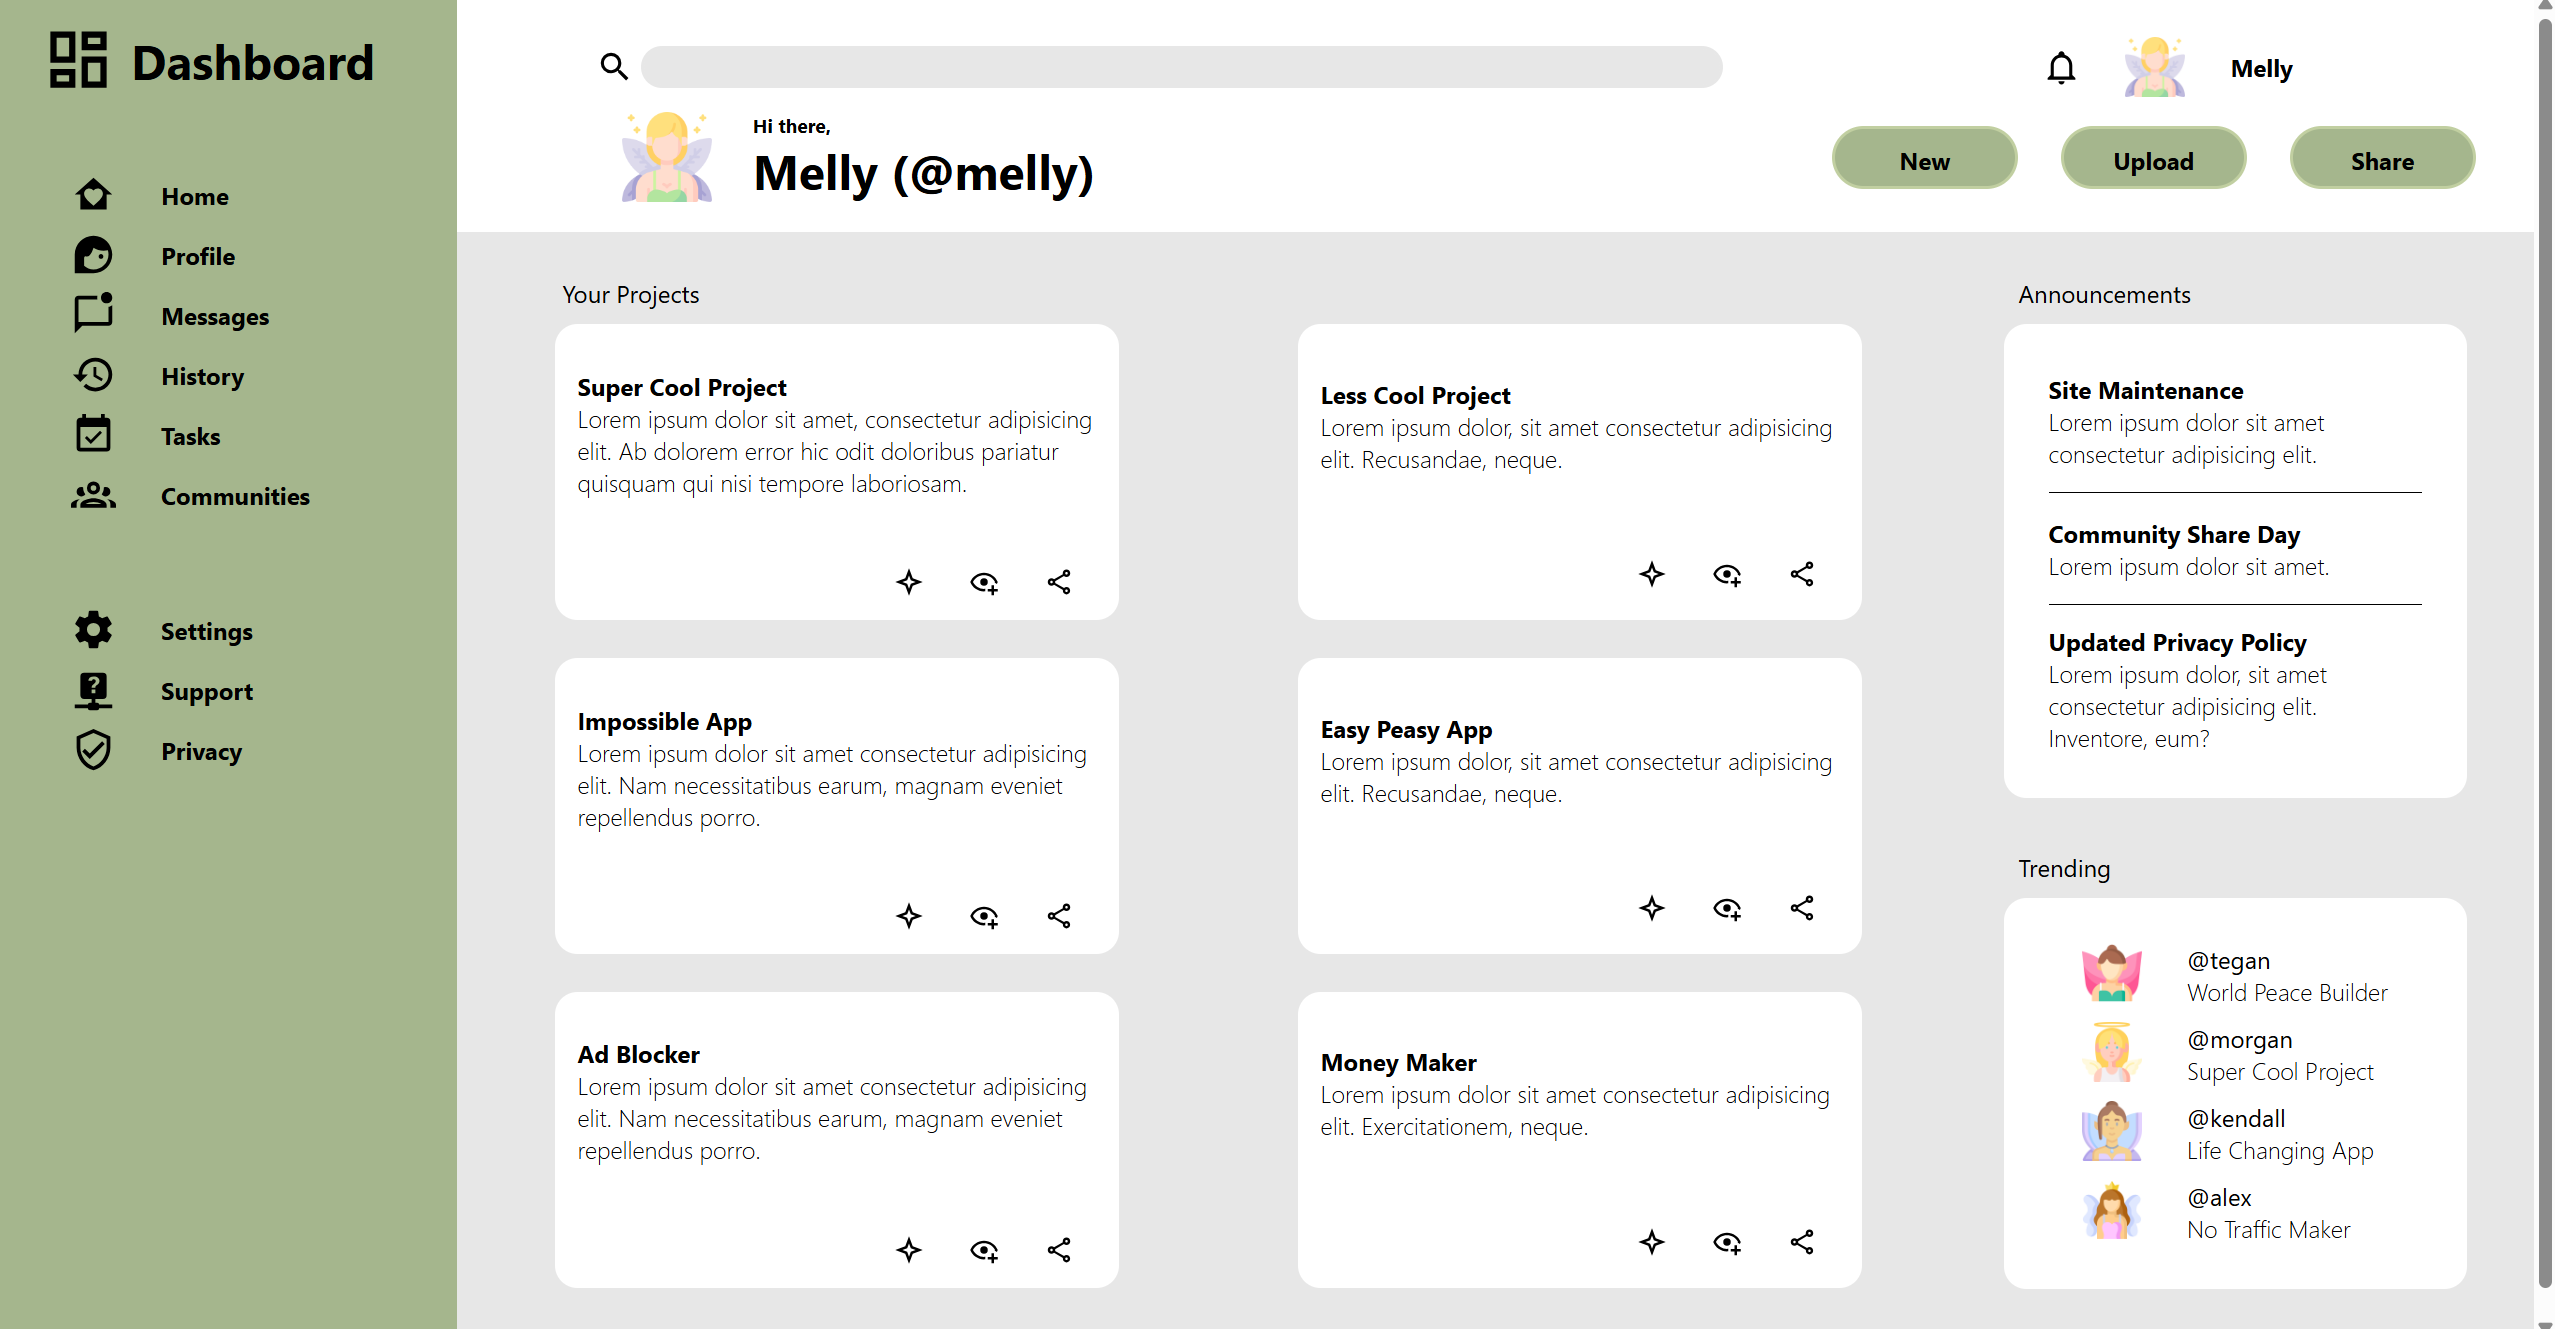
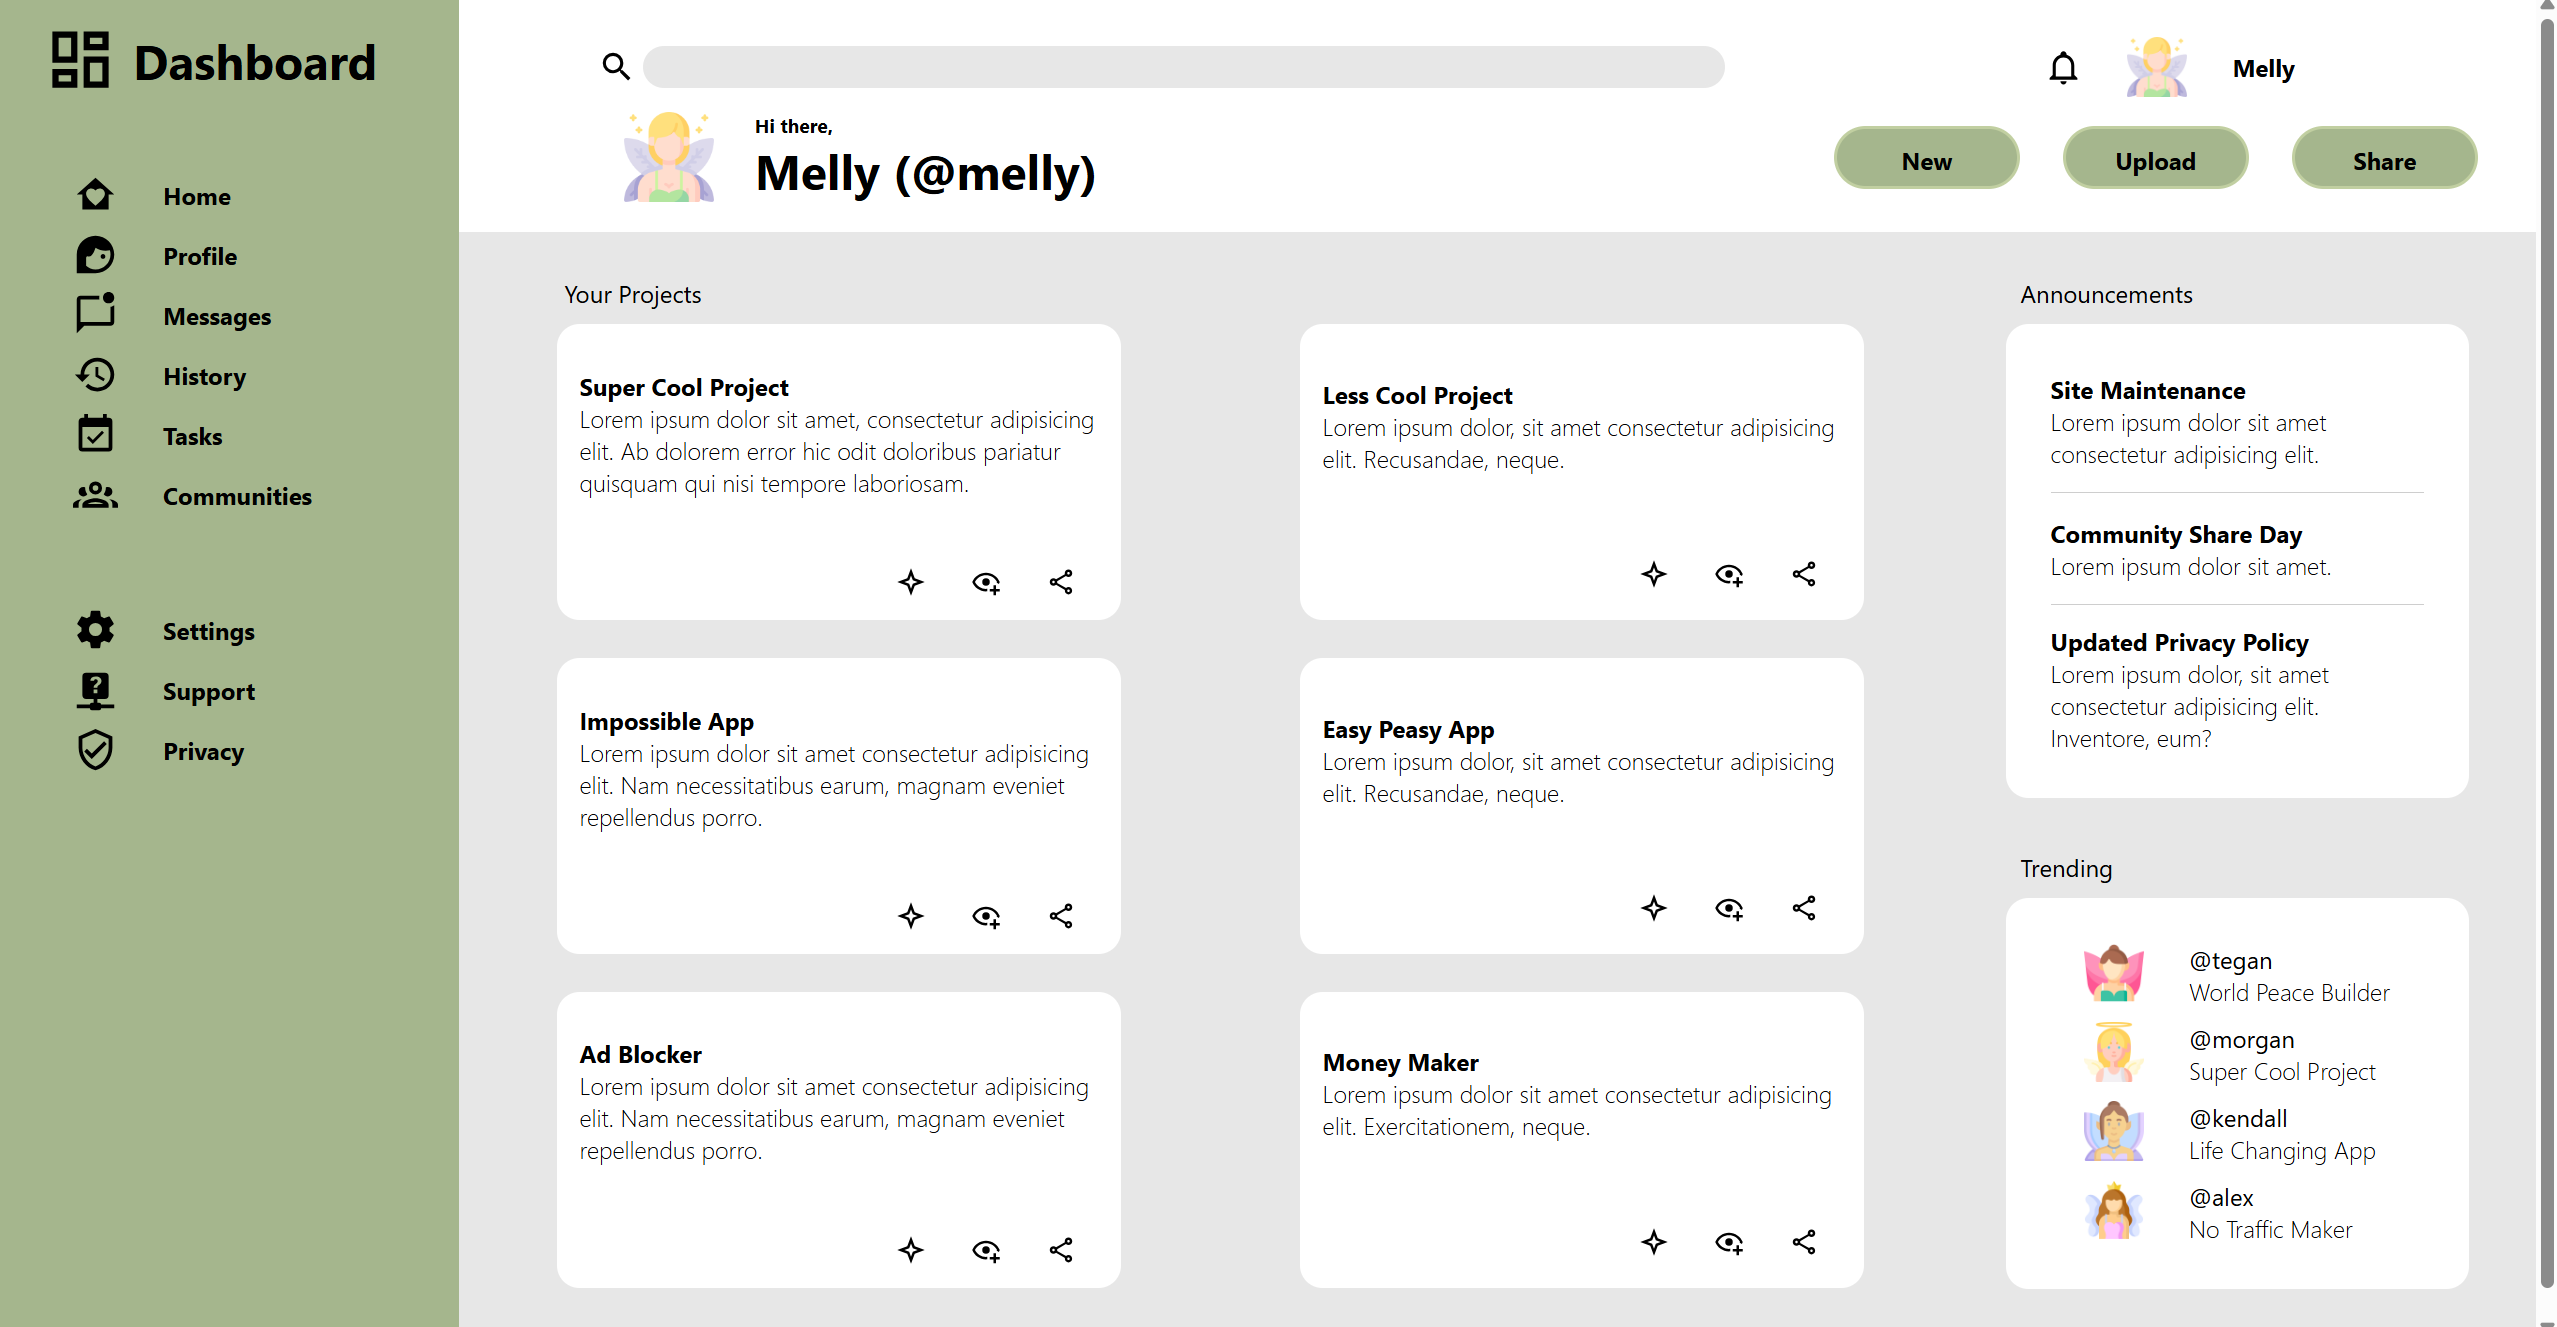
changed border clr
updated readme

diff --git a/style.css b/style.css
@@ -335,7 +335,7 @@ span{
 
 .announcements-container > .announcements > .update > p {
     font-weight: 100;
-    border-bottom: 1px black solid;
+    border-bottom: 1px rgb(206, 206, 206) solid;
     padding-bottom: 15px;
 }
 
